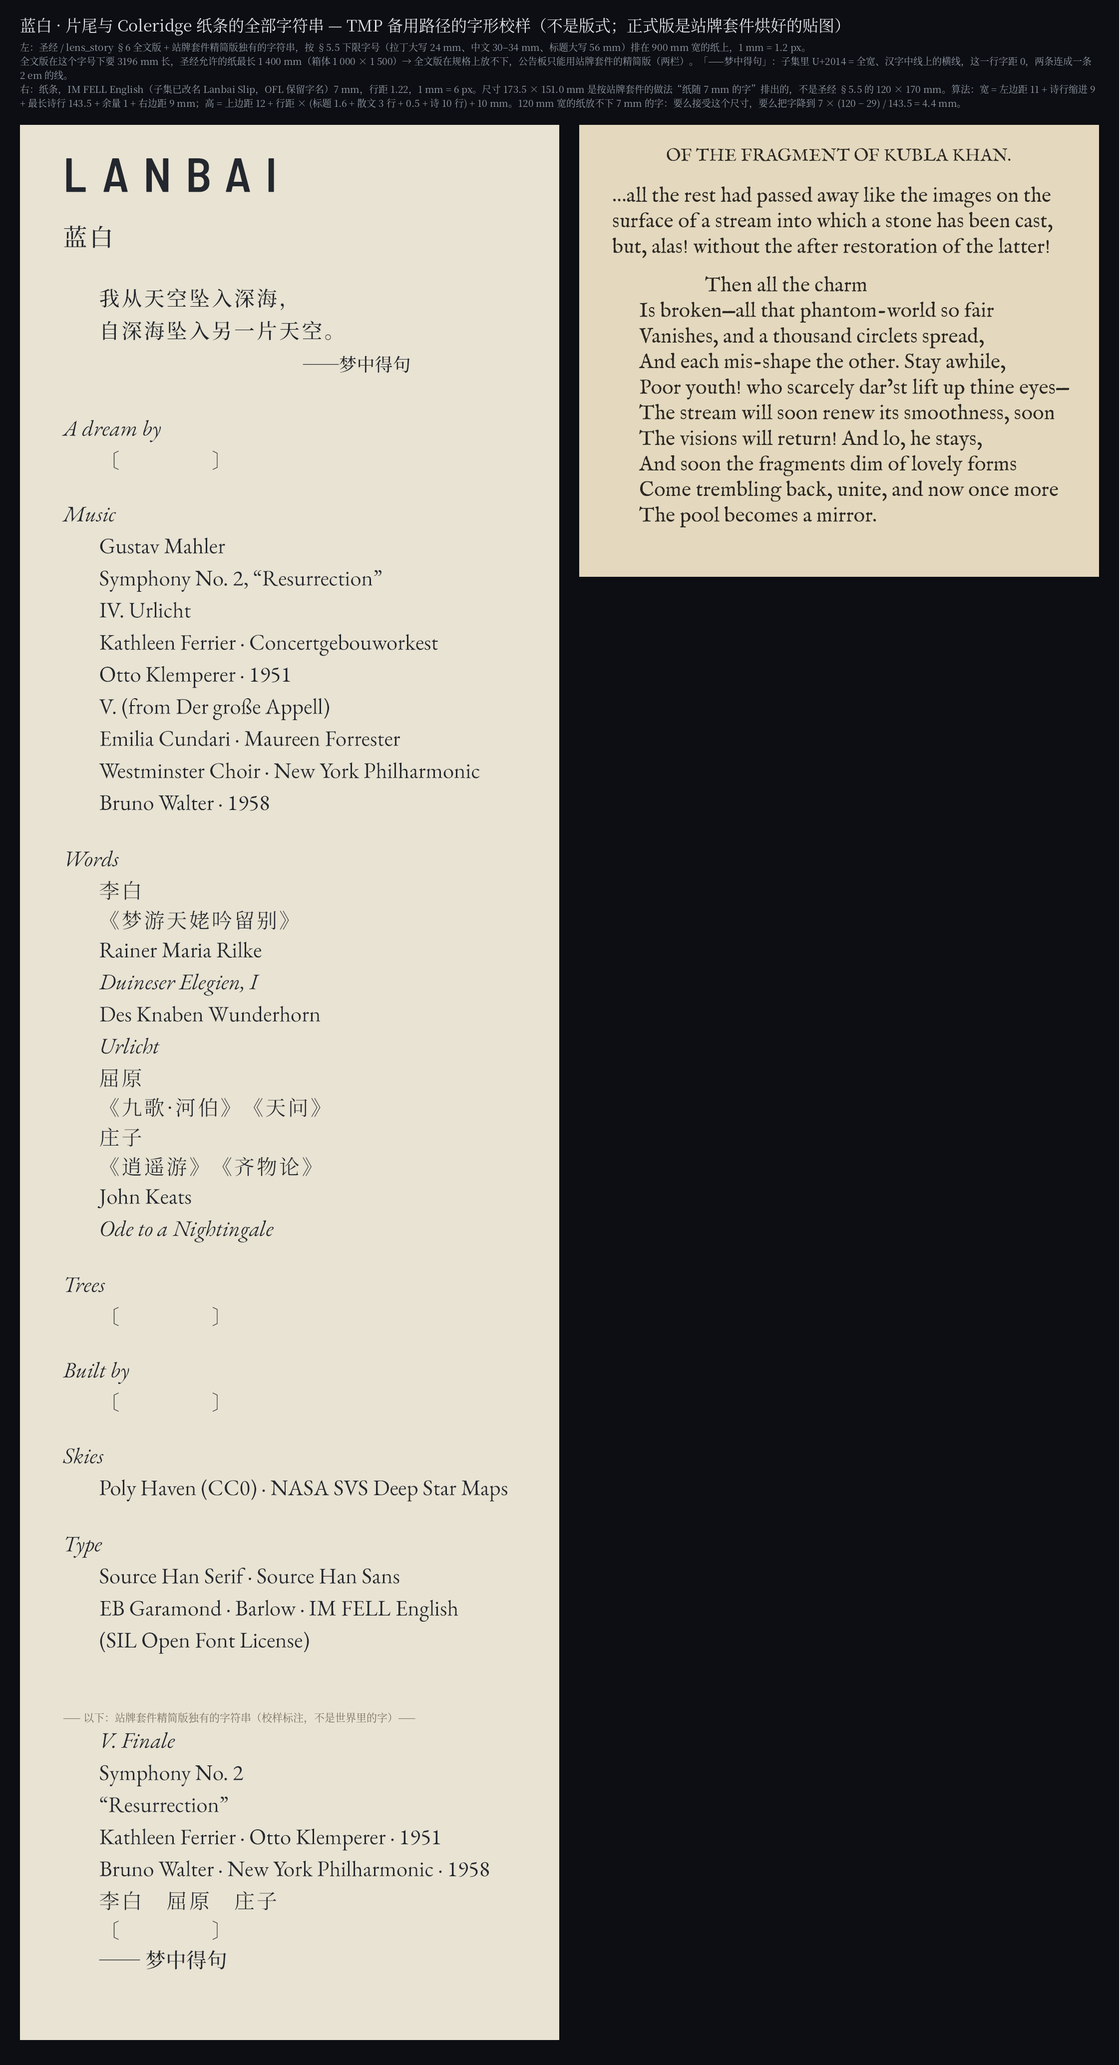
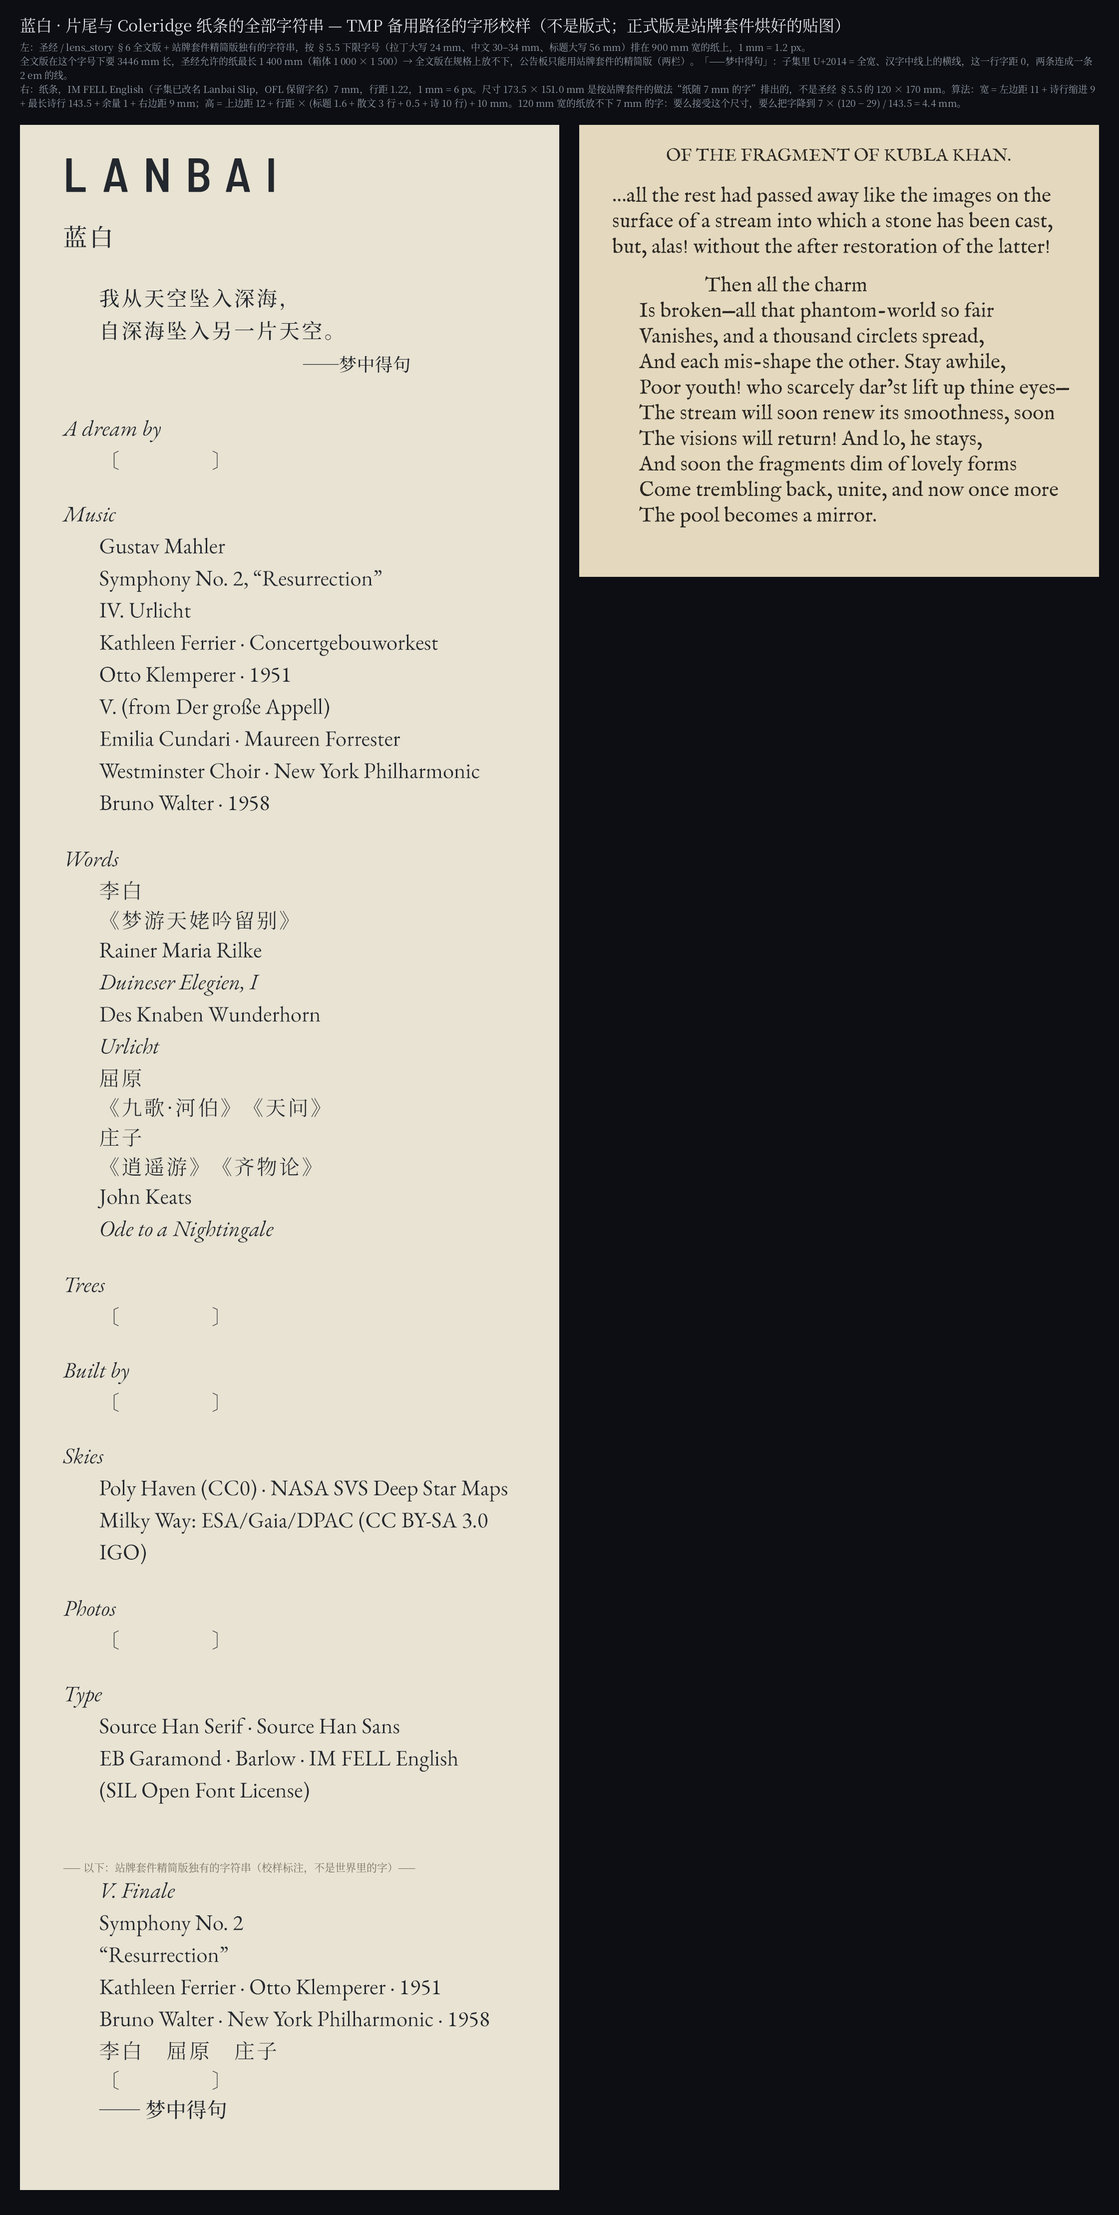
Fonts v4: Rilke ja block centre +4.5 (D-13 supplement, right edge +16.49); credits: Gaia Milky Way line (D-11), Photos placeholder
Claude-Session: https://claude.ai/code/session_01KkS56fbJ2PHMzFo5cG61GU

diff --git a/Fonts/Tools~/lanbai_strings.py b/Fonts/Tools~/lanbai_strings.py
@@ -408,6 +408,9 @@ for p_ in POEMS:
         # azimuth +5.5°, elevation -2.5° (= the top edge of every language's block), 60 m
         p_['place'] = (5.5, -2.5, p_['place'][2])
         p_['anchor_top'] = True
+        # D-13 supplement (main a5d7470): the ja block (3 lines, widest 24.0° with the +0.10 em tracking) moves 1° left,
+        # centre +4.5°, so its right edge is +16.5° (4° from the A pillar); line breaks, size and tracking unchanged
+        p_['az_by_lang'] = {'ja': 4.5}
         p_['place_note'] = 'D-13 定稿（main cae5b7e）：单语块顶边对齐，TMP 轴心在上中，方位 +5.5°、仰角 −2.5°（块的顶边）、60 m'
 
 
@@ -496,7 +499,9 @@ CREDITS = {
         ]},
         {'role': 'Trees', 'names': [{'font': 'EBGaramond-Regular', 'text': '〔the user’s credit for the Linluo trees〕', 'placeholder': True}]},
         {'role': 'Built by', 'names': [{'font': 'EBGaramond-Regular', 'text': '〔names, as the dreamer wishes〕', 'placeholder': True}]},
-        {'role': 'Skies', 'names': [{'font': 'EBGaramond-Regular', 'text': 'Poly Haven (CC0) · NASA SVS Deep Star Maps'}]},
+        {'role': 'Skies', 'names': [{'font': 'EBGaramond-Regular', 'text': 'Poly Haven (CC0) · NASA SVS Deep Star Maps'},
+                                    {'font': 'EBGaramond-Regular', 'text': 'Milky Way: ESA/Gaia/DPAC (CC BY-SA 3.0 IGO)'}]},   # D-11
+        {'role': 'Photos', 'names': [{'font': 'EBGaramond-Regular', 'text': '〔PAZ photo authors and licences, as the bus README lists them〕', 'placeholder': True}]},
         {'role': 'Type', 'names': [{'font': 'EBGaramond-Regular', 'text': 'Source Han Serif · Source Han Sans'},
                                    {'font': 'EBGaramond-Regular', 'text': 'EB Garamond · Barlow · IM FELL English'},
                                    {'font': 'EBGaramond-Regular', 'text': '(SIL Open Font License)'}]},

diff --git a/Fonts/Tools~/lanbai_layout.py b/Fonts/Tools~/lanbai_layout.py
@@ -267,10 +267,11 @@ def block_layout(p, player, segs=None):
                     k += 1
         o['star_points'] = pts
         o['char_objects'] = chars
-    return add_scrims(dict(player=player, shown=key, shown_lang=lang, translation=tr, anchor=[p['place'][0], el, d],
+    az = p.get('az_by_lang', {}).get(lang, p['place'][0])
+    return add_scrims(dict(player=player, shown=key, shown_lang=lang, translation=tr, anchor=[az, el, d],
                            anchor_mode='top' if p.get('anchor_top') else 'centre',
                            block_center_el=round(el + adj, 3), shift_deg=round(adj, 3), objects=objs,
-                           block=block_box(objs, p['place'][0])), p)
+                           block=block_box(objs, az)), p)
 
 
 # ------------------------------------------------------------------------------ Zhuangzi (§6·8)

diff --git a/Fonts/README_Fonts.md b/Fonts/README_Fonts.md
@@ -80,75 +80,76 @@ D-30 的例外只有天问，所以庄子也只显示自己的语言：中文玩
 ### 0.5 里尔克的位置：D-13 定稿
 
 **单语块顶边对齐，TMP 轴心在上中，摆在方位 +5.5°、仰角 −2.5°（块的顶边）、60 m**（D-13，main cae5b7e，「车」按四种单语块量过：`pkg/bus` `Bus/Docs~/D-13_里尔克候选.md`）。原来的 `place [20, 3, 60]` 作废。`layout[玩家].anchor_mode = 'top'`：父物体放在顶边的方向上，文字的第一行基线在它下面 `top_em × 字号` 处（CJK 0.88 em、拉丁 0.72 em）。
-- 日文断成三行：「美とは、/ 恐ろしいものの / 始まりにほかならない」。按 CJK 主行 2.2° 量，最长一行（第三行）**24.0°**；裁决里写的“最长一行 22°”对应的是 2.0°。日文按 D-30 #2 用 CJK 主行字号，所以是 24.0°，请「车」的净空表按这个数核一下（D-13 写的日文净空 2.0°）。
+- 日文断成三行：「美とは、/ 恐ろしいものの / 始まりにほかならない」。按 CJK 主行 2.2°、字距 +0.10 em，最长一行 24.0°。**日文块往左挪 1°，中心 +4.5°**（D-13 补充，main a5d7470），右沿 **+16.49°**（A 柱 4° 线是 +16.5°）；断行、字号、字距都不变。数据：`az_by_lang = {ja: 4.5}`，`layout.ja.anchor[0]` = 4.5。各语言的右沿：中 / 繁 +12.65°、日 +16.49°、英 +15.18°、德 +16.05°。
 - 拉丁 / 德文 2.0° em；中文、繁体 2.2°。
 
 ### 0.6 每首诗每种语言的字块（各幕包摆诗用；「车」复核里尔克用）
 
 块宽 = 最宽一行的 TMP 框；块高 = 第一行 em 框的顶到最后一行 em 框的底（度）。方位 / 仰角是在 §7.5 默认位置上的范围（注视规则 §4.2 第 4 条会把整块平移）。`strings_all.json` 的 `block_table` 是同一张表，`Docs~/build_report.txt` 的 `== BLOCKS ==` 也是。**每首诗的位置要对它所有的行都放得下**（D-30 #2）。
 
-| 诗 | 玩家 | 看到的 | 字号 | 行数 | 块宽 × 块高 | 方位 | 仰角 | 重新断行 |
+| 诗 | 玩家 | 看到的 | 字号 | 行数 | 块宽 × 块高 | 方位（左沿 … 右沿） | 仰角 | 重新断行 |
 |---|---|---|---|---|---|---|---|---|
-| `P03_LiBai_Dream` | zh | 原文 | 2.40° | 2 | **18.2° × 6.2°** | +40.9 … +59.1 | -12.1 … -5.9 |  |
-|  | zht | 繁体 | 2.40° | 2 | **18.2° × 6.2°** | +40.9 … +59.1 | -12.1 … -5.9 |  |
-|  | ja | 日文 | 2.40° | 4 | **23.5° × 13.9°** | +38.2 … +61.8 | -16.0 … -2.0 | 是 |
-|  | en | 英译 | 2.20° | 4 | **22.1° × 11.1°** | +38.9 … +61.1 | -14.5 … -3.5 | 是 |
-|  | de | 英译 | 2.20° | 4 | **22.1° × 11.1°** | +38.9 … +61.1 | -14.5 … -3.5 | 是 |
-| `P04a_Rilke` | zh | 中译 | 2.20° | 2 | **14.3° × 5.7°** | -1.6 … +12.7 | -8.2 … -2.5 |  |
-|  | zht | 繁体 | 2.20° | 2 | **14.3° × 5.7°** | -1.6 … +12.7 | -8.2 … -2.5 |  |
-|  | ja | 日文 | 2.20° | 3 | **24.0° × 9.2°** | -6.5 … +17.5 | -11.7 … -2.5 | 是 |
-|  | en | 英译 | 2.00° | 2 | **19.4° × 4.7°** | -4.2 … +15.2 | -7.2 … -2.5 |  |
-|  | de | 原文 | 2.00° | 2 | **21.1° × 4.7°** | -5.0 … +16.1 | -7.2 … -2.5 |  |
-| `P04b_Urlicht` | zh | 中译 | 1.80° | 2 | **17.6° × 4.7°** | -8.8 … +8.8 | -10.3 … -5.7 |  |
-|  | zht | 繁体 | 1.80° | 2 | **17.6° × 4.7°** | -8.8 … +8.8 | -10.3 … -5.7 |  |
-|  | ja | 日文 | 1.80° | 2 | **27.5° × 4.7°** | -13.8 … +13.8 | -10.3 … -5.7 |  |
-|  | en | 英译 | 1.80° | 2 | **19.3° × 4.2°** | -9.7 … +9.7 | -10.1 … -5.9 |  |
-|  | de | 原文 | 1.80° | 2 | **19.2° × 4.2°** | -9.6 … +9.6 | -10.1 … -5.9 |  |
-| `P06_Dream_Dawn` | zh | 原文 | 2.40° | 1 | **20.9° × 2.4°** | -25.4 … -4.6 | -13.2 … -10.8 |  |
-|  | zht | 繁体 | 2.40° | 1 | **20.9° × 2.4°** | -25.4 … -4.6 | -13.2 … -10.8 |  |
-|  | ja | 日文 | 2.40° | 2 | **18.2° × 6.2°** | -24.1 … -5.9 | -15.1 … -8.9 |  |
-|  | en | 英译 | 2.20° | 2 | **14.7° × 5.1°** | -22.3 … -7.7 | -14.6 … -9.4 |  |
-|  | de | 英译 | 2.20° | 2 | **14.7° × 5.1°** | -22.3 … -7.7 | -14.6 … -9.4 |  |
-| `P07_HeBo` | zh | 原文 | 2.20° | 3 | **14.3° × 9.2°** | +2.9 … +17.1 | +1.4 … +10.6 |  |
-|  | zht | 繁体 | 2.20° | 3 | **14.3° × 9.2°** | +2.9 … +17.1 | +1.4 … +10.6 |  |
-|  | ja | 日文 | 2.20° | 3 | **24.0° × 9.2°** | -2.0 … +22.0 | +1.4 … +10.6 |  |
-|  | en | 英译 | 2.00° | 6 | **20.1° × 15.5°** | -0.0 … +20.1 | -1.7 … +13.7 | 是 |
-|  | de | 英译 | 2.00° | 6 | **20.1° × 15.5°** | -0.0 … +20.1 | -1.7 … +13.7 | 是 |
-| `P08a_Dream_Dusk` | zh | 原文 | 2.40° | 1 | **26.2° × 2.4°** | -28.1 … -1.9 | -13.2 … -10.8 |  |
-|  | zht | 繁体 | 2.40° | 1 | **26.2° × 2.4°** | -28.1 … -1.9 | -13.2 … -10.8 |  |
-|  | ja | 日文 | 2.40° | 3 | **20.9° × 10.1°** | -25.4 … -4.6 | -17.0 … -7.0 | 是 |
-|  | en | 英译 | 2.20° | 2 | **19.2° × 5.1°** | -24.6 … -5.4 | -14.6 … -9.4 |  |
-|  | de | 英译 | 2.20° | 2 | **19.2° × 5.1°** | -24.6 … -5.4 | -14.6 … -9.4 |  |
-| `P08b_Zhuangzi_Xiaoyao` | zh | 原文 | 2.20° | 2 | **26.4° × 12.8°** | +21.8 … +48.2 | -6.4 … +6.4 |  |
-|  | zht | 繁体 | 2.20° | 2 | **26.4° × 12.8°** | +21.8 … +48.2 | -6.4 … +6.4 |  |
-|  | ja | 日文 | 2.08° | 4 | **22.7° × 25.4°** | +23.7 … +46.3 | -12.7 … +12.7 | 是 |
-|  | en | 英译 | 2.00° | 4 | **20.6° × 20.9°** | +24.7 … +45.3 | -10.4 … +10.4 |  |
-|  | de | 英译 | 2.00° | 4 | **20.6° × 20.9°** | +24.7 … +45.3 | -10.4 … +10.4 |  |
-| `P09_Tianwen` | zh | 原文 | 2.20° | 2 | **24.0° × 5.7°** | -12.0 … +12.0 | +5.1 … +10.9 |  |
-|  | zht | 原文 | 2.20° | 2 | **24.0° × 5.7°** | -12.0 … +12.0 | +5.1 … +10.9 |  |
-|  | ja | 原文 + 下面 ja 1.8° | 2.20° | 5 | **27.5° × 15.1°** | -13.8 … +13.8 | -4.2 … +10.9 |  |
-|  | en | 原文 + 下面 en 1.8° | 2.20° | 6 | **25.3° × 16.4°** | -12.7 … +12.7 | -5.5 … +10.9 |  |
-|  | de | 原文 + 下面 en 1.8° | 2.20° | 6 | **25.3° × 16.4°** | -12.7 … +12.7 | -5.5 … +10.9 |  |
-| `P11_Zhuangzi_Butterfly` | zh | 原文 | 2.00° | 2 | **19.6° × 5.2°** | -9.8 … +9.8 | +5.4 … +10.6 |  |
-|  | zht | 繁体 | 2.00° | 2 | **19.6° × 5.2°** | -9.8 … +9.8 | +5.4 … +10.6 |  |
-|  | ja | 日文 | 2.00° | 3 | **24.0° × 8.4°** | -12.0 … +12.0 | +3.8 … +12.2 |  |
-|  | en | 英译 | 2.00° | 3 | **27.6° × 7.4°** | -13.8 … +13.8 | +4.3 … +11.7 |  |
-|  | de | 英译 | 2.00° | 3 | **27.6° × 7.4°** | -13.8 … +13.8 | +4.3 … +11.7 |  |
-| `P12a_LiBai_Wake` | zh | 原文 | 2.40° | 2 | **15.6° × 6.2°** | +42.2 … +57.8 | -12.1 … -5.9 |  |
-|  | zht | 繁体 | 2.40° | 2 | **15.6° × 6.2°** | +42.2 … +57.8 | -12.1 … -5.9 |  |
-|  | ja | 日文 | 2.40° | 3 | **20.9° × 10.1°** | +39.6 … +60.4 | -14.0 … -4.0 | 是 |
-|  | en | 英译 | 2.20° | 4 | **21.5° × 11.1°** | +39.2 … +60.8 | -14.5 … -3.5 | 是 |
-|  | de | 英译 | 2.20° | 4 | **21.5° × 11.1°** | +39.2 … +60.8 | -14.5 … -3.5 | 是 |
-| `P12b_Keats` | zh | 中译 | 1.80° | 2 | **19.6° × 4.7°** | +40.2 … +59.8 | -16.3 … -11.7 |  |
-|  | zht | 繁体 | 1.80° | 2 | **19.6° × 4.7°** | +40.2 … +59.8 | -16.3 … -11.7 |  |
-|  | ja | 日文 | 1.80° | 3 | **21.6° × 7.6°** | +39.2 … +60.8 | -17.8 … -10.2 |  |
-|  | en | 原文 | 1.60° | 1 | **23.3° × 1.6°** | +38.4 … +61.6 | -14.8 … -13.2 |  |
-|  | de | 原文 | 1.60° | 1 | **23.3° × 1.6°** | +38.4 … +61.6 | -14.8 … -13.2 |  |
+| `P03_LiBai_Dream` | zh | 原文 | 2.40° | 2 | **18.2° × 6.2°** | +40.88 … +59.12 | -12.1 … -5.9 |  |
+|  | zht | 繁体 | 2.40° | 2 | **18.2° × 6.2°** | +40.88 … +59.12 | -12.1 … -5.9 |  |
+|  | ja | 日文 | 2.40° | 4 | **23.5° × 13.9°** | +38.24 … +61.76 | -16.0 … -2.0 | 是 |
+|  | en | 英译 | 2.20° | 4 | **22.1° × 11.1°** | +38.94 … +61.06 | -14.5 … -3.5 | 是 |
+|  | de | 英译 | 2.20° | 4 | **22.1° × 11.1°** | +38.94 … +61.06 | -14.5 … -3.5 | 是 |
+| `P04a_Rilke` | zh | 中译 | 2.20° | 2 | **14.3° × 5.7°** | -1.65 … +12.65 | -8.2 … -2.5 |  |
+|  | zht | 繁体 | 2.20° | 2 | **14.3° × 5.7°** | -1.65 … +12.65 | -8.2 … -2.5 |  |
+|  | ja | 日文 | 2.20° | 3 | **24.0° × 9.2°** | -7.49 … +16.49 | -11.7 … -2.5 | 是 |
+|  | en | 英译 | 2.00° | 2 | **19.4° × 4.7°** | -4.18 … +15.18 | -7.2 … -2.5 |  |
+|  | de | 原文 | 2.00° | 2 | **21.1° × 4.7°** | -5.04 … +16.05 | -7.2 … -2.5 |  |
+| `P04b_Urlicht` | zh | 中译 | 1.80° | 2 | **17.6° × 4.7°** | -8.82 … +8.82 | -10.3 … -5.7 |  |
+|  | zht | 繁体 | 1.80° | 2 | **17.6° × 4.7°** | -8.82 … +8.82 | -10.3 … -5.7 |  |
+|  | ja | 日文 | 1.80° | 2 | **27.5° × 4.7°** | -13.77 … +13.77 | -10.3 … -5.7 |  |
+|  | en | 英译 | 1.80° | 2 | **19.3° × 4.2°** | -9.65 … +9.65 | -10.1 … -5.9 |  |
+|  | de | 原文 | 1.80° | 2 | **19.2° × 4.2°** | -9.62 … +9.62 | -10.1 … -5.9 |  |
+| `P06_Dream_Dawn` | zh | 原文 | 2.40° | 1 | **20.9° × 2.4°** | -25.44 … -4.56 | -13.2 … -10.8 |  |
+|  | zht | 繁体 | 2.40° | 1 | **20.9° × 2.4°** | -25.44 … -4.56 | -13.2 … -10.8 |  |
+|  | ja | 日文 | 2.40° | 2 | **18.2° × 6.2°** | -24.12 … -5.88 | -15.1 … -8.9 |  |
+|  | en | 英译 | 2.20° | 2 | **14.7° × 5.1°** | -22.34 … -7.66 | -14.6 … -9.4 |  |
+|  | de | 英译 | 2.20° | 2 | **14.7° × 5.1°** | -22.34 … -7.66 | -14.6 … -9.4 |  |
+| `P07_HeBo` | zh | 原文 | 2.20° | 3 | **14.3° × 9.2°** | +2.85 … +17.15 | +1.4 … +10.6 |  |
+|  | zht | 繁体 | 2.20° | 3 | **14.3° × 9.2°** | +2.85 … +17.15 | +1.4 … +10.6 |  |
+|  | ja | 日文 | 2.20° | 3 | **24.0° × 9.2°** | -1.99 … +21.99 | +1.4 … +10.6 |  |
+|  | en | 英译 | 2.00° | 6 | **20.1° × 15.5°** | -0.04 … +20.05 | -1.7 … +13.7 | 是 |
+|  | de | 英译 | 2.00° | 6 | **20.1° × 15.5°** | -0.04 … +20.05 | -1.7 … +13.7 | 是 |
+| `P08a_Dream_Dusk` | zh | 原文 | 2.40° | 1 | **26.2° × 2.4°** | -28.08 … -1.92 | -13.2 … -10.8 |  |
+|  | zht | 繁体 | 2.40° | 1 | **26.2° × 2.4°** | -28.08 … -1.92 | -13.2 … -10.8 |  |
+|  | ja | 日文 | 2.40° | 3 | **20.9° × 10.1°** | -25.44 … -4.56 | -17.0 … -7.0 | 是 |
+|  | en | 英译 | 2.20° | 2 | **19.2° × 5.1°** | -24.62 … -5.38 | -14.6 … -9.4 |  |
+|  | de | 英译 | 2.20° | 2 | **19.2° × 5.1°** | -24.62 … -5.38 | -14.6 … -9.4 |  |
+| `P08b_Zhuangzi_Xiaoyao` | zh | 原文 | 2.20° | 2 | **26.4° × 12.8°** | +21.80 … +48.20 | -6.4 … +6.4 |  |
+|  | zht | 繁体 | 2.20° | 2 | **26.4° × 12.8°** | +21.80 … +48.20 | -6.4 … +6.4 |  |
+|  | ja | 日文 | 2.08° | 4 | **22.7° × 25.4°** | +23.66 … +46.34 | -12.7 … +12.7 | 是 |
+|  | en | 英译 | 2.00° | 4 | **20.6° × 20.9°** | +24.70 … +45.30 | -10.4 … +10.4 |  |
+|  | de | 英译 | 2.00° | 4 | **20.6° × 20.9°** | +24.70 … +45.30 | -10.4 … +10.4 |  |
+| `P09_Tianwen` | zh | 原文 | 2.20° | 2 | **24.0° × 5.7°** | -11.99 … +11.99 | +5.1 … +10.9 |  |
+|  | zht | 原文 | 2.20° | 2 | **24.0° × 5.7°** | -11.99 … +11.99 | +5.1 … +10.9 |  |
+|  | ja | 原文 + 下面 ja 1.8° | 2.20° | 5 | **27.5° × 15.1°** | -13.77 … +13.77 | -4.2 … +10.9 |  |
+|  | en | 原文 + 下面 en 1.8° | 2.20° | 6 | **25.3° × 16.4°** | -12.65 … +12.65 | -5.5 … +10.9 |  |
+|  | de | 原文 + 下面 en 1.8° | 2.20° | 6 | **25.3° × 16.4°** | -12.65 … +12.65 | -5.5 … +10.9 |  |
+| `P11_Zhuangzi_Butterfly` | zh | 原文 | 2.00° | 2 | **19.6° × 5.2°** | -9.80 … +9.80 | +5.4 … +10.6 |  |
+|  | zht | 繁体 | 2.00° | 2 | **19.6° × 5.2°** | -9.80 … +9.80 | +5.4 … +10.6 |  |
+|  | ja | 日文 | 2.00° | 3 | **24.0° × 8.4°** | -12.00 … +12.00 | +3.8 … +12.2 |  |
+|  | en | 英译 | 2.00° | 3 | **27.6° × 7.4°** | -13.78 … +13.78 | +4.3 … +11.7 |  |
+|  | de | 英译 | 2.00° | 3 | **27.6° × 7.4°** | -13.78 … +13.78 | +4.3 … +11.7 |  |
+| `P12a_LiBai_Wake` | zh | 原文 | 2.40° | 2 | **15.6° × 6.2°** | +42.20 … +57.80 | -12.1 … -5.9 |  |
+|  | zht | 繁体 | 2.40° | 2 | **15.6° × 6.2°** | +42.20 … +57.80 | -12.1 … -5.9 |  |
+|  | ja | 日文 | 2.40° | 3 | **20.9° × 10.1°** | +39.56 … +60.44 | -14.0 … -4.0 | 是 |
+|  | en | 英译 | 2.20° | 4 | **21.5° × 11.1°** | +39.25 … +60.75 | -14.5 … -3.5 | 是 |
+|  | de | 英译 | 2.20° | 4 | **21.5° × 11.1°** | +39.25 … +60.75 | -14.5 … -3.5 | 是 |
+| `P12b_Keats` | zh | 中译 | 1.80° | 2 | **19.6° × 4.7°** | +40.19 … +59.81 | -16.3 … -11.7 |  |
+|  | zht | 繁体 | 1.80° | 2 | **19.6° × 4.7°** | +40.19 … +59.81 | -16.3 … -11.7 |  |
+|  | ja | 日文 | 1.80° | 3 | **21.6° × 7.6°** | +39.20 … +60.80 | -17.8 … -10.2 |  |
+|  | en | 原文 | 1.60° | 1 | **23.3° × 1.6°** | +38.35 … +61.65 | -14.8 … -13.2 |  |
+|  | de | 原文 | 1.60° | 1 | **23.3° × 1.6°** | +38.35 … +61.65 | -14.8 … -13.2 |  |
 
 ### 0.8 D-31 带来的（2026-10-24 第二批）
 
 - **繁体中文**：见 §0.1。新字体 `Lanbai_SerifTC_Regular SDF`（`Subset/LanbaiSerifTC-Regular.otf`，按 OFL 改名为 Lanbai Serif TC；原件 `Originals~/SourceHanSerifTW-Regular.otf`，`fetch_fonts.sh` 已加），每首诗多一个 `zht` 玩家；材质预设 37 → 47 个。
 - **公告板的字**（`strings_all.json` 的 `ui`，`ui_note`）：语言开关「中」「日」「EN」，发车提示两行 × 四种（简、繁、日、英），`{0}` 换成秒数；四种字体都带 0–9。日文两句请母语者看：「バスはあと {0} 秒で発車します」「そのあとに乗る人は、道の途中から合流します」。发车以后没有任何 UI 字（§6·12）。
+- **片尾补了两行**：Skies 下加 “Milky Way: ESA/Gaia/DPAC (CC BY-SA 3.0 IGO)”（D-11）；新角色 Photos 留一个占位（PAZ 照片的作者和许可，等「车」的 README 定了用哪几张）。
 - 公告板上字的摆法（字号、位置）等「车」/ 站牌定了公告板的样子再给，这里只给字和字体。
 
 ### 0.7 改了哪些文件

diff --git a/Engineering/STATUS.md b/Engineering/STATUS.md
@@ -1,7 +1,8 @@
-2026-10-24（UTC）· 总工程师：**字体第 4 版 + D-30a + D-32 可以终审了**。D-30a：Urlicht / 齐物论 / 济慈回到原来的小字号（济慈、Urlicht 的重新断行随之去掉），庄子日文 2.08° 已批。D-32：`gen_globals.py` 不再猜类型（没写清、或登记表和声明不一致就报错不写），全表 182 个 0 个没出处；集成 §8 记了车厢 `yieldToInside` 的有意重叠。**等你定一件**：里尔克日文第三行按 TMP（含 +0.10 em 字距）是 24.0°，右沿 +17.5°，越过 A 柱 4° 线 1.0°（「车」的 22.0° 没算字距）；三个改法已发你，现在仍是你给的断行。
+2026-10-24（UTC）· 总工程师：**字体第 4 版可以终审了（最新）**。在 7ca03c0 之上：里尔克日文块按 D-13 补充往左挪 1°（中心 +4.5°，右沿 +16.49°，断行字号字距不变）；片尾补 “Milky Way: ESA/Gaia/DPAC (CC BY-SA 3.0 IGO)” 和 Photos 占位。校样重出，0 缺字。
 
 # 总工程师 · 进度
 
+| 10-24 | 里尔克日文 +4.5°、片尾两行署名 |
 | 10-24 | D-30a 字号、D-32 生成器不猜类型 + 车厢重叠说明 |
 | 10-24 | 字体 v4 + D-31：繁体、里尔克定稿、公告板字串、语言接口；集成 §9.8 |
 | 10-24 | 字体第 4 版（D-30）、Director v1.1、集成说明第 9 幕 |
